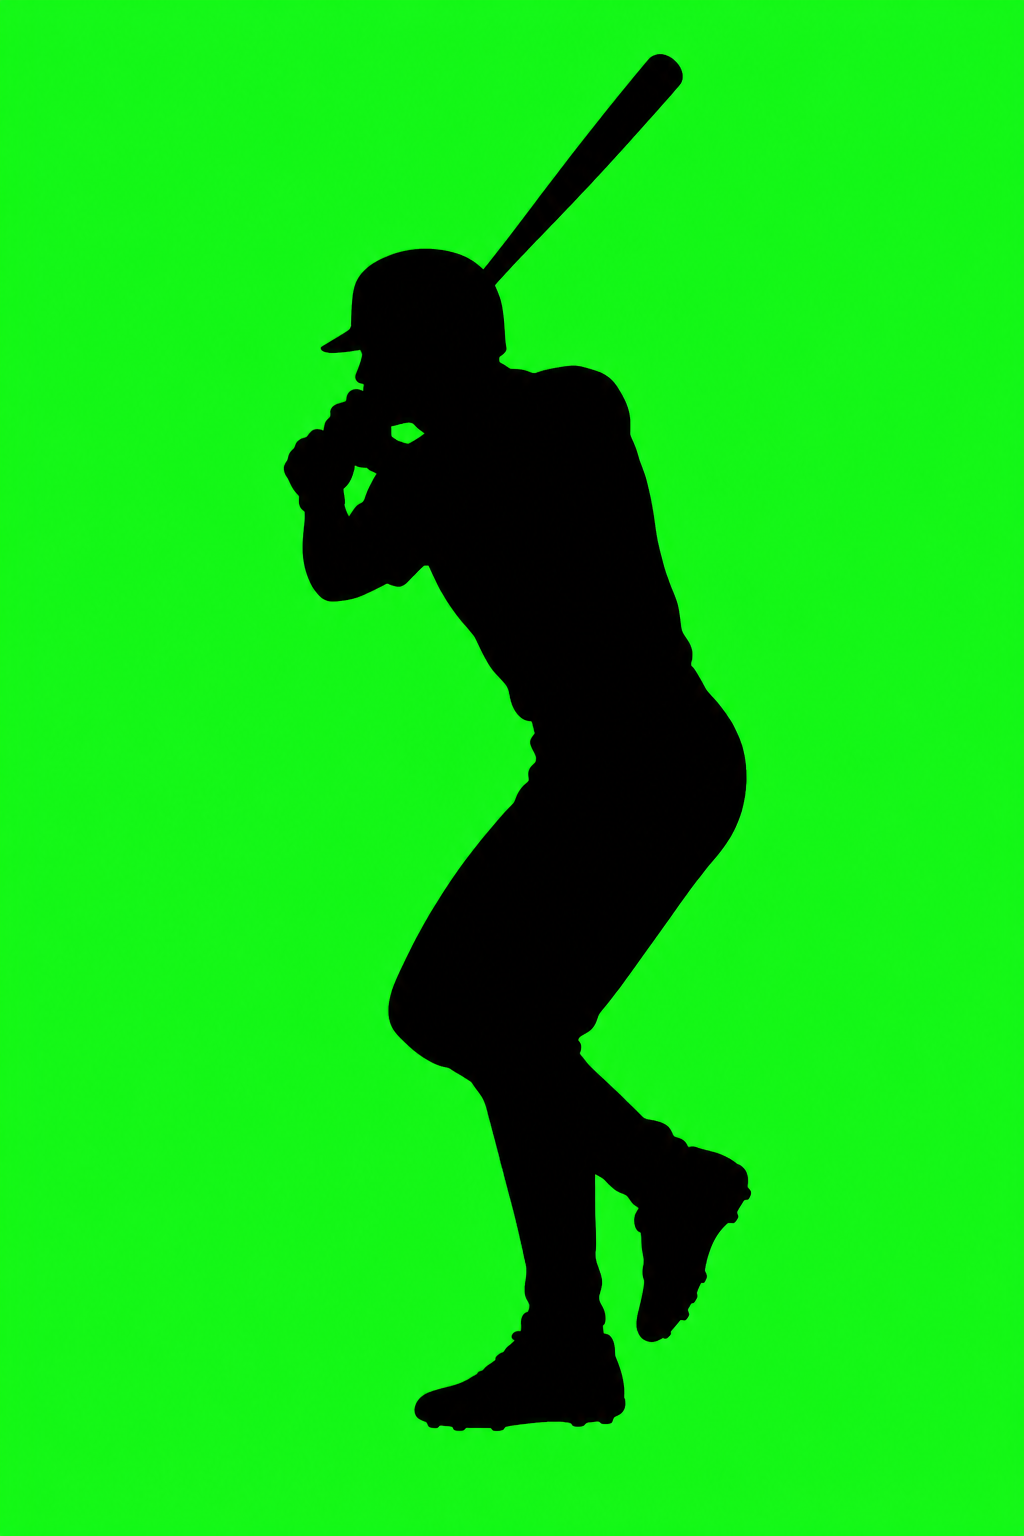
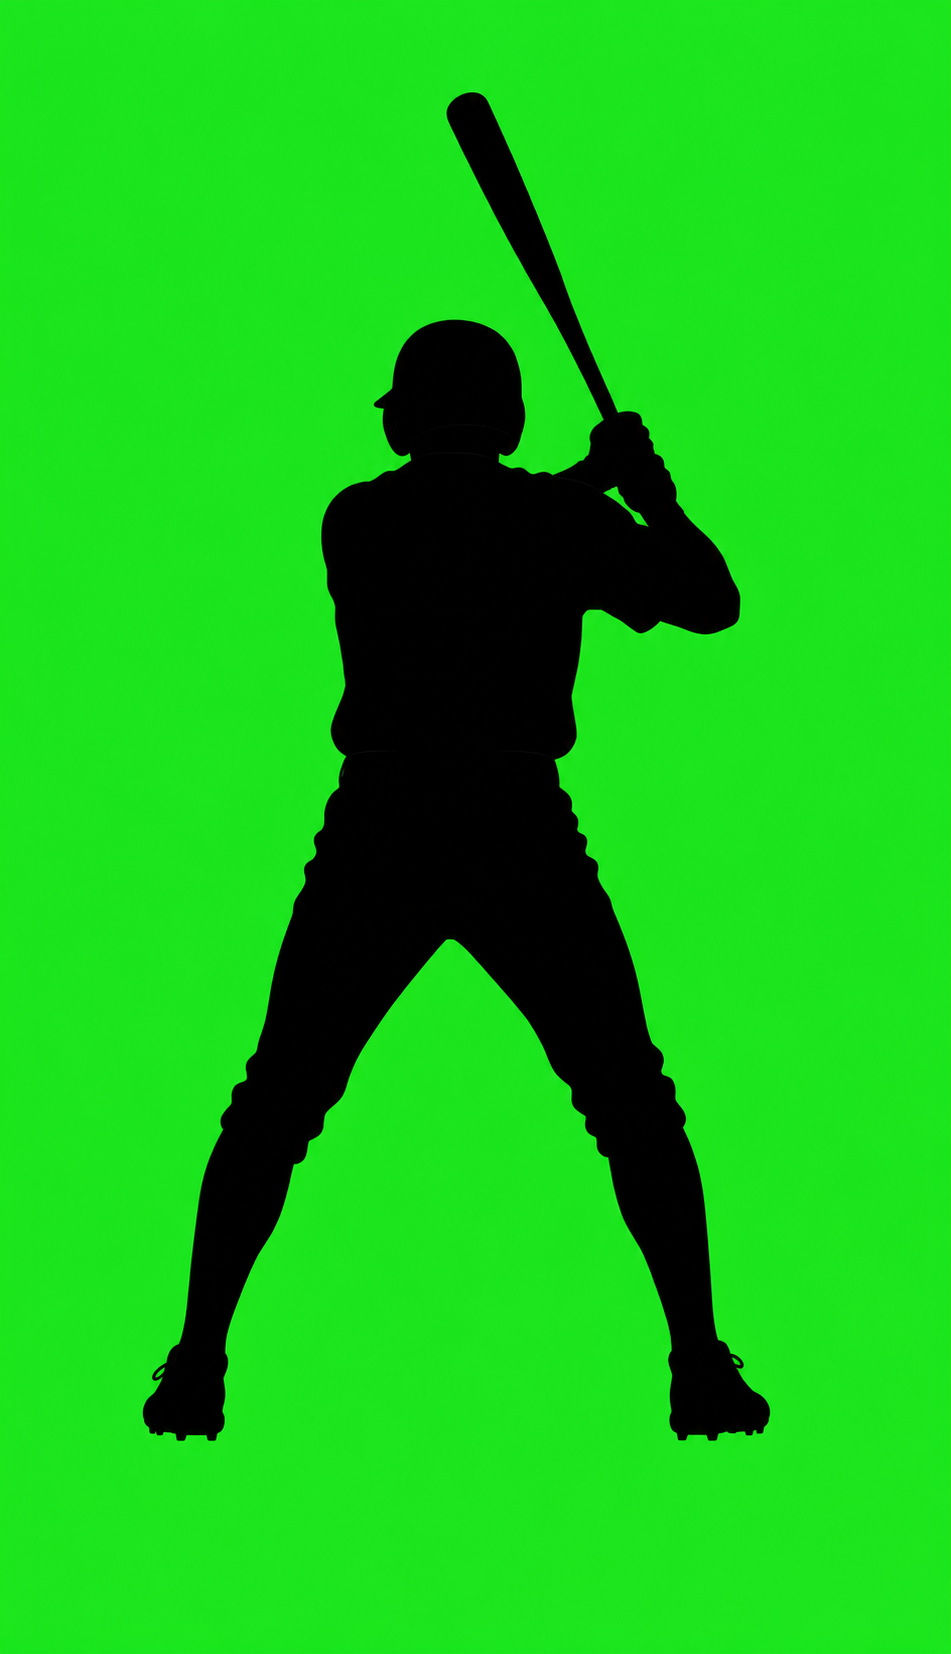
Change

Changed region(s): [[0.1525, 0.0312, 0.8233, 0.9375]]

diff --git a/scouting.html b/scouting.html
@@ -1626,17 +1626,16 @@ Zane Skansi,Kitchener Panthers`;
     ctx.fillText("FROM A "+perspective+"'S POV",(cpx(-1)+cpx(1))/2,cpy(1)-4);ctx.restore();
     return c.toDataURL('image/png');
   }
-  var BATTER_SILHOUETTE_IMG=new Image();
-  BATTER_SILHOUETTE_IMG.src='batter-pov-silhouette.png';
+  var BATTER_SILHOUETTE_IMGS={R:new Image(),L:new Image()};
+  BATTER_SILHOUETTE_IMGS.R.src='batter-pov-silhouette-rhh.png';
+  BATTER_SILHOUETTE_IMGS.L.src='batter-pov-silhouette-lhh.png';
   function mkBatterSilhouette(hand){
-    var W=515,H=1425,c=document.createElement('canvas');c.width=W;c.height=H;
+    var img=BATTER_SILHOUETTE_IMGS[hand]||BATTER_SILHOUETTE_IMGS.R;
+    var W=118,H=206,c=document.createElement('canvas');c.width=W;c.height=H;
     var ctx=c.getContext('2d');
     ctx.clearRect(0,0,W,H);
-    if(!BATTER_SILHOUETTE_IMG.complete||!BATTER_SILHOUETTE_IMG.naturalWidth)return c.toDataURL('image/png');
-    ctx.save();
-    if(hand==='L'){ctx.translate(W,0);ctx.scale(-1,1);}
-    ctx.drawImage(BATTER_SILHOUETTE_IMG,0,0,W,H);
-    ctx.restore();
+    if(!img.complete||!img.naturalWidth)return c.toDataURL('image/png');
+    ctx.drawImage(img,0,0,W,H);
     return c.toDataURL('image/png');
   }
   function mkHeat(sc,perspective){
@@ -2636,10 +2635,10 @@ Zane Skansi,Kitchener Panthers`;
         if(!sd2.subXY.length)return;
         var groupW=heatW+batterGap+batterW;
         var groupX=ML+i*(iw+gap)+(iw-groupW)/2;
-        var batterH=Math.min(heatH*0.95,batterW*1425/515);
+        var batterH=Math.min(heatH*0.95,batterW*206/118);
         var batterY=y+heatH-batterH+1;
-        var heatX=sd2.hand==='L'?groupX+batterW+batterGap:groupX;
-        var batterX=sd2.hand==='L'?groupX:groupX+heatW+batterGap;
+        var heatX=sd2.hand==='L'?groupX:groupX+batterW+batterGap;
+        var batterX=sd2.hand==='L'?groupX+heatW+batterGap:groupX;
         d.addImage(mkBatterSilhouette(sd2.hand),'PNG',batterX,batterY,batterW,batterH);
         d.addImage(mkHeat(sd2.subXY,'BATTER'),'PNG',heatX,y,heatW,heatH);
       });